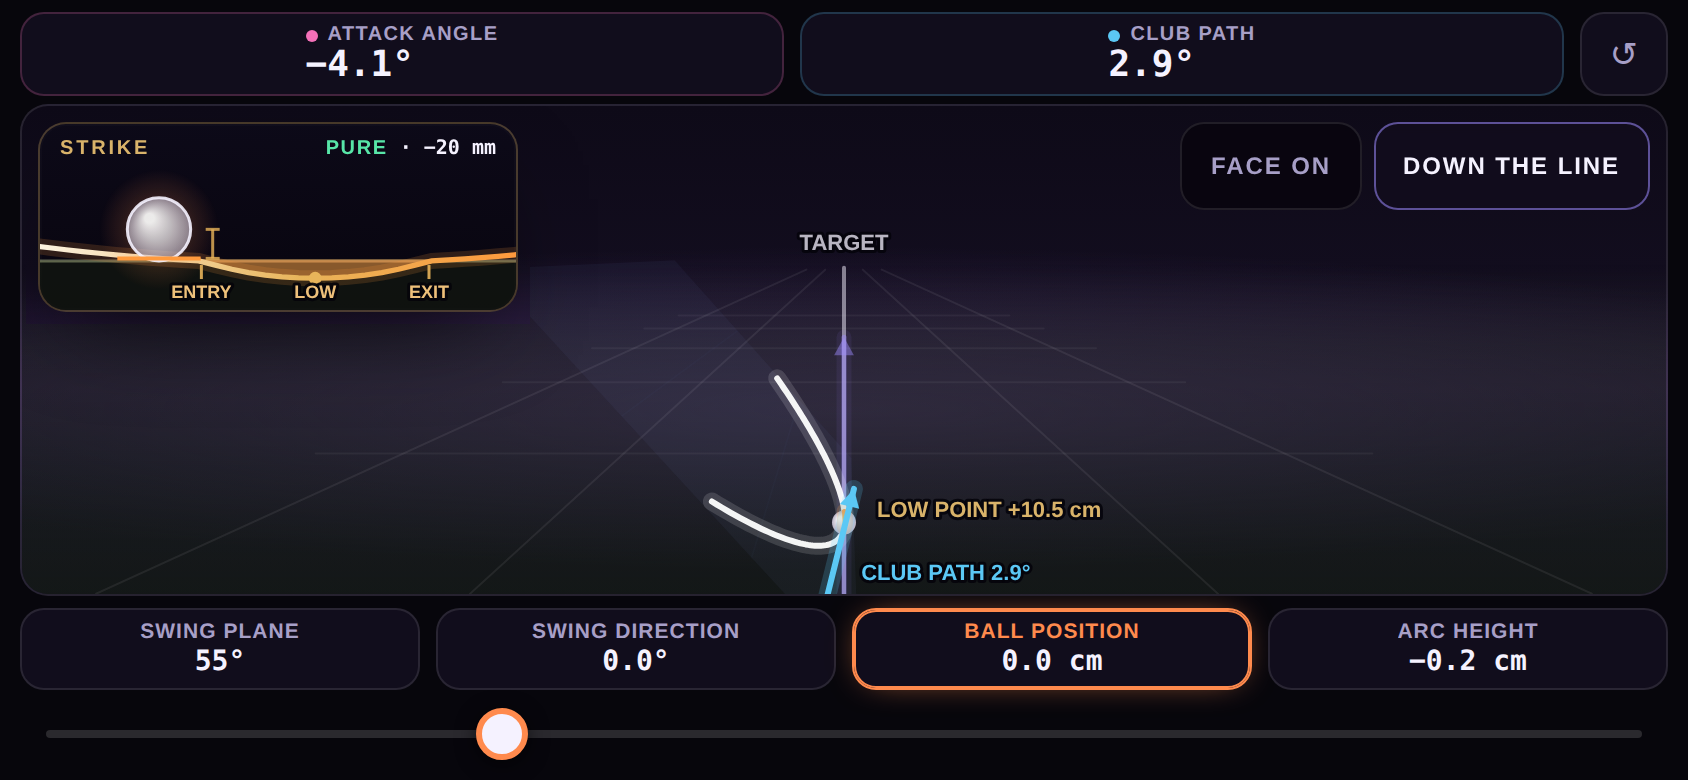
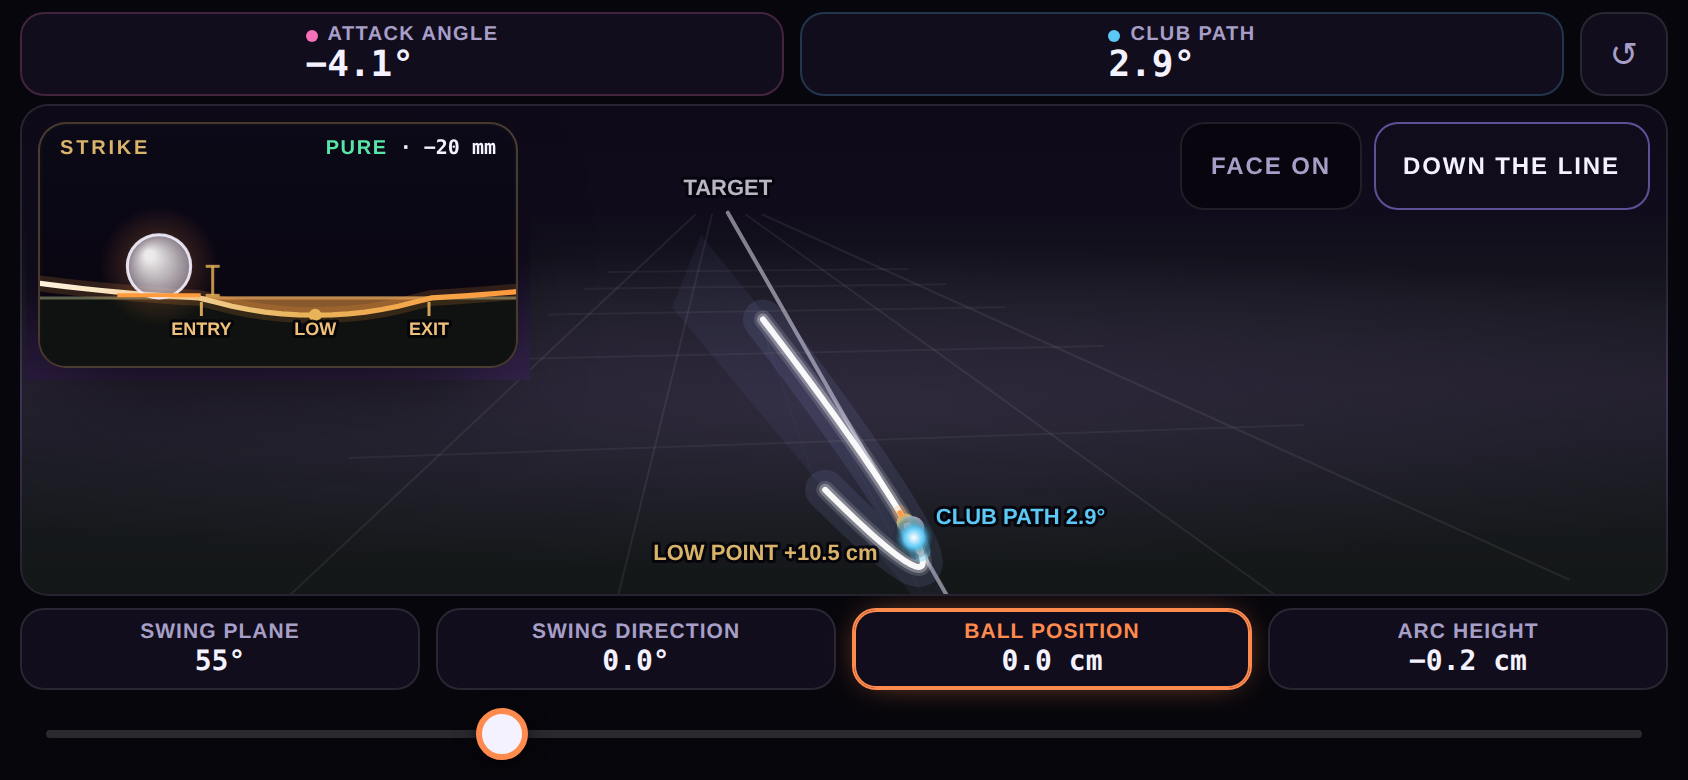
feat(mocks): cand02 runde 4 — glass som input-sprak, buelys og kompaktere geometri
- Swing Direction og Swing Plane illustreres KUN med glasset: all tekst
  og alle piler for dem er fjernet i begge perspektiv; glasset far
  hero-opacity nar en av chippene er valgt.
- Attack (Face On) og Path (DTL) tegnes na som selve svingbuen opplyst
  gjennom ballen: hvit-varm kjerne over token-farget glod (rosa/cyan),
  ingen pilspiss/vinkelsektor, med en liten lyspuls som glir nedstroms
  gjennom treffet (av ved prefers-reduced-motion). Transient fade
  beholdt fra runde 3.
- DTL: buen lyser opp ved endring (fiolett lyswash + varm indre glod);
  nytt kamera star litt pa trail-siden i hoftehoyde (asymmetrisk
  perspektiv, scenen mot hoyre), buen tegnes med +-60 grader sweep og
  glasset er forlenget innover mot forsvinningspunktet.
- Miniskjermen bruker mer vertikal plass (canvas 72->100 px, 58->76 pa
  smale bredder).
- Face On-buen mer kompakt: progressiv x-kompresjon der kontaktsonen
  (+-0.28 m) forblir i sann skala og ytre buearmer komprimeres 0.62x.

Verifisert med Playwright (inkl. fade-sjekk) pa 844x390, 568x320,
932x430 + portrait-gate; ingen overflow.

Claude-Session: https://claude.ai/code/session_015noFYdzdiCPii6w7rLNcFR

Changed region(s): [[0.0, 0.2462, 0.3081, 0.4923], [0.4005, 0.2769, 0.6777, 0.7692], [0.4005, 0.2154, 0.4621, 0.2462]]

diff --git a/impact-studio-mock-p3-cand02.html b/impact-studio-mock-p3-cand02.html
@@ -98,10 +98,10 @@
   .inset::after{content:"";position:absolute;left:10px;right:10px;top:24px;height:2px;
     border-radius:2px;background:var(--gold);opacity:0;transition:opacity .3s var(--ease)}
   .inset.hit::after{opacity:1}
-  #insetCv{display:block;width:100%;height:72px}
+  #insetCv{display:block;width:100%;height:100px}
   .inset .eyebrow > span:first-child{margin-right:8px}
   .inset .eyebrow .ez{display:none}   /* compact inset → short title always */
-  @media (max-width:620px){ #insetCv{height:58px}
+  @media (max-width:620px){ #insetCv{height:76px}
     .inset .eyebrow{font-size:9px;padding:5px 8px 2px} }
 
   /* ---------- controls ---------- */
@@ -484,6 +484,37 @@ function flashAlpha(){
   const dt = performance.now() - vecFlashAt;
   return dt < 900 ? 1 : clamp(1 - (dt - 900) / 700, 0, 1);
 }
+const REDUCED = matchMedia('(prefers-reduced-motion: reduce)').matches;
+function cometU(){                            // eased 0..1 pulse position along the segment
+  const u = clamp((performance.now() - vecFlashAt) / 1200, 0, 1);
+  return u < 0.5 ? 2 * u * u : 1 - Math.pow(-2 * u + 2, 2) / 2;
+}
+/* outcome segment: the arc itself, lit up through the ball — white-hot core
+ * over a token-hued glow, with a small light pulse travelling downstream */
+function litSegment(pts, hue, fa){
+  if (pts.length < 2 || fa <= 0.01) return;
+  ctx.save(); ctx.lineCap = 'round'; ctx.lineJoin = 'round';
+  const strokePts = () => {
+    ctx.beginPath();
+    pts.forEach((p, i) => i ? ctx.lineTo(p.x, p.y) : ctx.moveTo(p.x, p.y));
+    ctx.stroke();
+  };
+  ctx.globalAlpha = 0.38 * fa; ctx.strokeStyle = hue; ctx.lineWidth = 11; strokePts();
+  ctx.globalAlpha = fa; ctx.strokeStyle = '#ffffff'; ctx.lineWidth = 4; strokePts();
+  if (!REDUCED){
+    const u = cometU();
+    const i = Math.min(pts.length - 1, Math.max(0, Math.round(u * (pts.length - 1))));
+    const c = pts[i];
+    const g = ctx.createRadialGradient(c.x, c.y, 0, c.x, c.y, 11);
+    g.addColorStop(0, 'rgba(255,255,255,' + 0.95 * fa + ')');
+    g.addColorStop(0.45, hue);
+    g.addColorStop(1, 'rgba(0,0,0,0)');
+    ctx.globalAlpha = fa;
+    ctx.beginPath(); ctx.arc(c.x, c.y, 11, 0, Math.PI * 2);
+    ctx.fillStyle = g; ctx.fill();
+  }
+  ctx.restore();
+}
 
 /* scene clip: everything in the main canvas is drawn OUTSIDE the inset
  * rect (+6 px margin), so the arc/glass can never collide with it */
@@ -686,8 +717,14 @@ function faceMap(){
   const K = 2.2;                                // vertical compression: arc reads as a U, like DTL
   const EXAG = 6, CAP = 0.042;                  // below-ground exaggeration (on top of K)
   const zMap = z => z >= 0 ? z * K : -CAP * Math.tanh(-z * EXAG / CAP) * (K * 0.55);
+  /* progressive horizontal compression: the contact zone (±0.28 m around
+     the ball) stays true-scale; the outer arms compress to 0.62× so the
+     arc reads as a tighter U */
+  const XC = 0.28, KX = 0.62;
+  const xComp = xm => Math.abs(xm) <= XC ? xm
+    : Math.sign(xm) * (XC + (Math.abs(xm) - XC) * KX);
   return { scale, bx, gy, K,
-    X: xm => bx + xm * scale,
+    X: xm => bx + xComp(xm) * scale,
     Y: zm => gy - zMap(zm) * scale };
 }
 function drawFace(t){
@@ -763,10 +800,10 @@ function drawFace(t){
     }
   }
 
-  /* --- glass (swing plane) behind the arc: same quad source as the DTL ribbon,
-     projected to face-on (x, z·K). Fill only, no border, faint inner rungs. --- */
+  /* --- glass (swing plane + direction) behind the arc: same quad source as
+     the DTL ribbon, projected to face-on (x, z·K). Fill only, no border. --- */
   {
-    const heroP = state.sel === 'plane';
+    const heroP = state.sel === 'plane' || state.sel === 'dir';
     const { u, m } = planeBasis(s.planeAngle, s.swingDirection);
     const lp = lpWorld(s);
     const pt2 = (a, b2) => ({ x: M.X(lp.x + a * u.x + b2 * m.x),
@@ -841,32 +878,20 @@ function drawFace(t){
     ctx.restore();
   }
 
-  /* --- attack tangent: transient — appears on parameter change, fades out.
-     Drawn with the same vertical compression K as the arc so it lies ON the arc;
-     the label shows the TRUE engine value. --- */
+  /* --- CLUB ATTACK: the arc itself lit up through the ball (transient).
+     No arrow, no wedge — the segment IS the arc at impact; a small light
+     pulse travels downstream through the strike. --- */
   if (fa > 0.01){
-    const tv = tangentAt(thImp, s);                       // motion direction (downstream)
-    const zK = tv.z * M.K;
-    const len2 = Math.hypot(tv.x, zK) || 1;
-    const dx = tv.x / len2, dz = zK / len2;               // face-on components (+z up, ×K)
-    const px2 = M.X(0), py2 = M.Y(cz);                    // impact point on the ball
-    const Lin = W >= 700 ? 150 : 110, Lout = W >= 700 ? 55 : 42;
-    const prog = 0.35 + 0.65 * t;                         // draw-in toward the ball
-    const sx2 = px2 - dx * Lin * prog, sy2 = py2 + dz * Lin * prog;   // upstream start
-    const ex = px2 + dx * Lout, ey = py2 - dz * Lout;                 // downstream tip
-    coreLine(sx2, sy2, ex, ey, A.attack, 3, 'rgba(244,112,184,.18)', fa);
-    arrowHead(ex, ey, Math.atan2(-dz, dx), 9, A.attack, fa);
-    /* angle wedge between tangent and a dashed horizontal reference */
-    ctx.save(); ctx.globalAlpha = fa;
-    ctx.setLineDash([4, 4]); ctx.strokeStyle = 'rgba(245,242,255,.4)'; ctx.lineWidth = 1.5;
-    ctx.beginPath(); ctx.moveTo(px2 - 60, py2); ctx.lineTo(px2 + 66, py2); ctx.stroke();
-    ctx.setLineDash([]);
-    const angT = Math.atan2(-dz, dx);                     // screen angle of motion
-    ctx.strokeStyle = A.attack; ctx.lineWidth = 2; ctx.globalAlpha = 0.9 * fa;
-    ctx.beginPath(); ctx.arc(px2, py2, 28, 0, angT, angT < 0); ctx.stroke();
-    ctx.restore();
+    const segPts = [];
+    for (let i = 0; i <= 26; i++){
+      const th = thImp - 0.14 + (0.20 * i) / 26;
+      const p = arcPosition(th, s);
+      segPts.push({ x: M.X(p.x), y: M.Y(p.z) });
+    }
+    litSegment(segPts, A.attack, fa);
+    const pe = segPts[segPts.length - 1];
     label('CLUB ATTACK ' + fmtNum(imp.attackAngle, 1) + '°',
-          Math.min(ex + 12, W - 150), ey - 16, A.attack, W >= 700 ? 11 : 10, 'left', false, fa);
+          Math.min(pe.x + 14, W - 150), pe.y - 16, A.attack, W >= 700 ? 11 : 10, 'left', false, fa);
   }
 
   /* --- low point: single plain marker (numbers/sequence live in the inset variant's inset) --- */
@@ -886,16 +911,7 @@ function drawFace(t){
 
   /* (no path arrow in Face On — path is DTL's transient vector) */
 
-  /* --- hero: swing direction (foreshortened ground arrow at the ball) --- */
-  if (state.sel === 'dir'){
-    const a = d2r(state.dir);
-    const L = 120;
-    const x2 = bx + Math.cos(a) * L, y2 = gy + 10 - Math.sin(a) * 26;
-    coreLine(bx - Math.cos(a) * L * 0.45, gy + 10 + Math.sin(a) * 12, x2, y2,
-             A.sec, 3, 'rgba(157,139,255,.2)', 1);
-    arrowHead(x2, y2, Math.atan2(y2 - (gy + 10), x2 - bx), 9, A.sec, 1);
-    label('SWING DIRECTION ' + fmtNum(state.dir, 1) + '°', bx + 30, gy + 34, A.sec, 11, 'left');
-  }
+  /* (swing direction has no arrow/text — the glass is its illustration) */
 
   /* --- hero: arc height (vertical bracket ground ↔ arc bottom, left of low point) --- */
   if (state.sel === 'arc'){
@@ -910,9 +926,7 @@ function drawFace(t){
           Math.abs(yB - yA) > 16 ? (yA + yB) / 2 : yA - 18, A.depth, 11, 'right', true);
   }
 
-  /* --- hero: plane label --- */
-  if (state.sel === 'plane')
-    label('SWING PLANE ' + fmtNum(state.plane, 0) + '°', W * 0.72, gy - 90, A.plane, 11, 'left');
+  /* (swing plane has no label — the glass is its illustration) */
 
   ctx.restore();                              // close the inset punch-out clip
 }
@@ -934,9 +948,12 @@ function strokeArc(s, M, style, width){
 
 /* ============================================================ DOWN THE LINE */
 function dtlCam(){
-  return { pos:{ x:-2.55, y:0, z:0.85 }, look:{ x:1.9, y:0, z:0.34 },
-           fov: d2r(H < 220 ? 36 : 32), xStretch: 1.25 };
+  /* stands slightly on the trail side of the line, hip height — gives an
+     asymmetric, more spatial DTL and pushes the scene toward the right */
+  return { pos:{ x:-2.35, y:0.5, z:1.0 }, look:{ x:2.3, y:-0.12, z:0.14 },
+           fov: d2r(H < 220 ? 36 : 32), xStretch: 1.1 };
 }
+const DTL_SWEEP = d2r(60);                    // longer arc into the perspective
 function drawDtl(t){
   const s = engineState();
   const B = buildCamera(dtlCam(), W, H);
@@ -978,67 +995,55 @@ function drawDtl(t){
     }
   }
 
-  /* swing-plane ribbon (hero when plane selected) */
+  /* swing-plane glass: the ONLY illustration of plane + direction.
+     Extended along u into the perspective; fill only, no border. */
   {
-    const alpha = state.sel === 'plane' ? 1 : 0.35;
+    const heroG = state.sel === 'plane' || state.sel === 'dir';
+    const alpha = heroG ? 1 : 0.45;
     const { u, m } = planeBasis(s.planeAngle, s.swingDirection);
     const lp = lpWorld(s);
     const pt = (a, b2) => ({ x: lp.x + a*u.x + b2*m.x, y: lp.y + a*u.y + b2*m.y, z: lp.z + a*u.z + b2*m.z });
-    const poly = [pt(-0.95, -0.04), pt(0.95, -0.04), pt(0.95, 1.0), pt(-0.95, 1.0)]
+    const poly = [pt(-1.05, -0.04), pt(1.5, -0.04), pt(1.5, 1.0), pt(-1.05, 1.0)]
       .map(P);
     if (poly.every(Boolean)){
       ctx.save(); ctx.globalAlpha = alpha;
       ctx.beginPath();
       poly.forEach((p, i) => i ? ctx.lineTo(p.x, p.y) : ctx.moveTo(p.x, p.y));
       ctx.closePath();
-      ctx.fillStyle = 'rgba(147,164,242,.14)'; ctx.fill();   // glass: fill only, no border
+      ctx.fillStyle = 'rgba(147,164,242,' + (heroG ? 0.26 : 0.14) + ')';
+      ctx.fill();
       /* faint inner rungs instead of an outline */
       ctx.lineWidth = 1;
       for (const bf of [0.30, 0.65]){
         const b2 = -0.04 + bf * 1.04;
-        const ra = P(pt(-0.95, b2)), rb = P(pt(0.95, b2));
+        const ra = P(pt(-1.05, b2)), rb = P(pt(1.5, b2));
         if (ra && rb){
-          ctx.strokeStyle = 'rgba(147,164,242,.07)';
+          ctx.strokeStyle = 'rgba(147,164,242,' + (heroG ? 0.11 : 0.07) + ')';
           ctx.beginPath(); ctx.moveTo(ra.x, ra.y); ctx.lineTo(rb.x, rb.y); ctx.stroke();
         }
       }
       ctx.restore();
-      if (state.sel === 'plane'){
-        const lab = poly[3];
-        label('SWING PLANE ' + fmtNum(state.plane, 0) + '°',
-              clamp(lab.x, 8, W - 130), clamp(lab.y + 16, 14, H - 14), A.plane, 11, 'left');
-      }
     }
   }
 
-  /* swing direction: solid ray ON the ground from the ball */
-  {
-    const alpha = state.sel === 'dir' ? 1 : 0.45;
-    const psi = d2r(-s.swingDirection);
-    const dirV = { x: Math.cos(psi), y: Math.sin(psi), z: 0 };
-    const a = P({ x: -0.5 * dirV.x, y: -0.5 * dirV.y, z: 0 });
-    const b = P({ x: 6 * dirV.x, y: 6 * dirV.y, z: 0 });
-    if (a && b){
-      coreLine(a.x, a.y, b.x, b.y, A.sec, state.sel === 'dir' ? 3 : 2.5,
-               'rgba(157,139,255,.18)', alpha);
-      arrowHead(b.x, b.y, Math.atan2(b.y - a.y, b.x - a.x), 9, A.sec, alpha);
-      if (state.sel === 'dir')
-        label('SWING DIRECTION ' + fmtNum(state.dir, 1) + '°',
-              clamp(b.x, 60, W - 60), clamp(b.y - 14, 14, H - 14), A.sec, 11, 'center');
-    }
-  }
-
-  /* swing arc (white, 3 px core) */
+  /* swing arc (white core) — lights up while a change is fresh */
   {
     ctx.save();
     ctx.lineCap = 'round'; ctx.lineJoin = 'round';
-    for (const pass of [ ['rgba(255,255,255,.14)', 9], ['rgba(255,255,255,.95)', 3] ]){
+    const passes = [ ['rgba(255,255,255,.14)', 9, 1] ];
+    if (fa > 0.01){
+      passes.unshift(['rgba(147,164,242,.12)', 20, fa]);   // violet light wash
+      passes.push(['rgba(255,255,255,.30)', 6, fa]);       // hot inner glow
+    }
+    passes.push(['rgba(255,255,255,.95)', 3, 1]);
+    for (const pass of passes){
+      ctx.globalAlpha = pass[2];
       ctx.strokeStyle = pass[0]; ctx.lineWidth = pass[1];
       ctx.beginPath();
       let started = false;
-      const N = 120;
+      const N = 130;
       for (let i = 0; i <= N; i++){
-        const th = -SWEEP_RAD + (2 * SWEEP_RAD * i) / N;
+        const th = -DTL_SWEEP + (2 * DTL_SWEEP * i) / N;
         const p = P(arcPosition(th, s));
         if (!p){ started = false; continue; }
         if (!started){ ctx.moveTo(p.x, p.y); started = true; } else ctx.lineTo(p.x, p.y);
@@ -1059,7 +1064,7 @@ function drawDtl(t){
       ctx.restore();
       if (state.sel === 'low')
         label('LOW POINT ' + fmtSigned(effectiveLpx(s) * 100, 1) + ' cm',
-              lp.x + 16, lp.y - 4, A.gold, 11, 'left');
+              lp.x - 14, lp.y + 16, A.gold, 11, 'right');
     }
   }
 
@@ -1120,23 +1125,20 @@ function drawDtl(t){
     }
   }
 
-  /* CLUB PATH: transient — appears on parameter change, fades out */
+  /* CLUB PATH: the arc itself lit up through the ball (transient) */
   if (fa > 0.01){
     const thImp = thetaAtImpact(s);
-    const tv = tangentAt(thImp, s);
-    const n = Math.hypot(tv.x, tv.y, tv.z) || 1;
-    const dir3 = { x: tv.x / n, y: tv.y / n, z: tv.z / n };
-    const impact3 = { x: 0, y: 0, z: clubBallContact(s).clubZ };
-    const prog = 0.35 + 0.65 * t;
-    const back = 0.85 * prog, fwdL = 0.6;
-    const pA = P({ x: impact3.x - dir3.x * back, y: impact3.y - dir3.y * back, z: impact3.z - dir3.z * back });
-    const pB = P({ x: impact3.x + dir3.x * fwdL, y: impact3.y + dir3.y * fwdL, z: impact3.z + dir3.z * fwdL });
-    if (pA && pB){
-      coreLine(pA.x, pA.y, pB.x, pB.y, A.path, 3, 'rgba(91,200,245,.2)', fa);
-      arrowHead(pB.x, pB.y, Math.atan2(pB.y - pA.y, pB.x - pA.x), 9, A.path, fa);
-      const mx = pA.x + (pB.x - pA.x) * 0.3, myy = pA.y + (pB.y - pA.y) * 0.3;
+    const segPts = [];
+    for (let i = 0; i <= 26; i++){
+      const th = thImp - 0.14 + (0.20 * i) / 26;
+      const p = P(arcPosition(th, s));
+      if (p) segPts.push(p);
+    }
+    litSegment(segPts, A.path, fa);
+    if (segPts.length){
+      const pe = segPts[segPts.length - 1];
       label('CLUB PATH ' + fmtNum(deriveImpact(s).clubPath, 1) + '°',
-            clamp(mx + 16, 8, W - 130), clamp(myy + 10, 14, H - 10), A.path, 11, 'left', false, fa);
+            clamp(pe.x + 14, 8, W - 130), clamp(pe.y - 4, 14, H - 10), A.path, 11, 'left', false, fa);
     }
   }
 